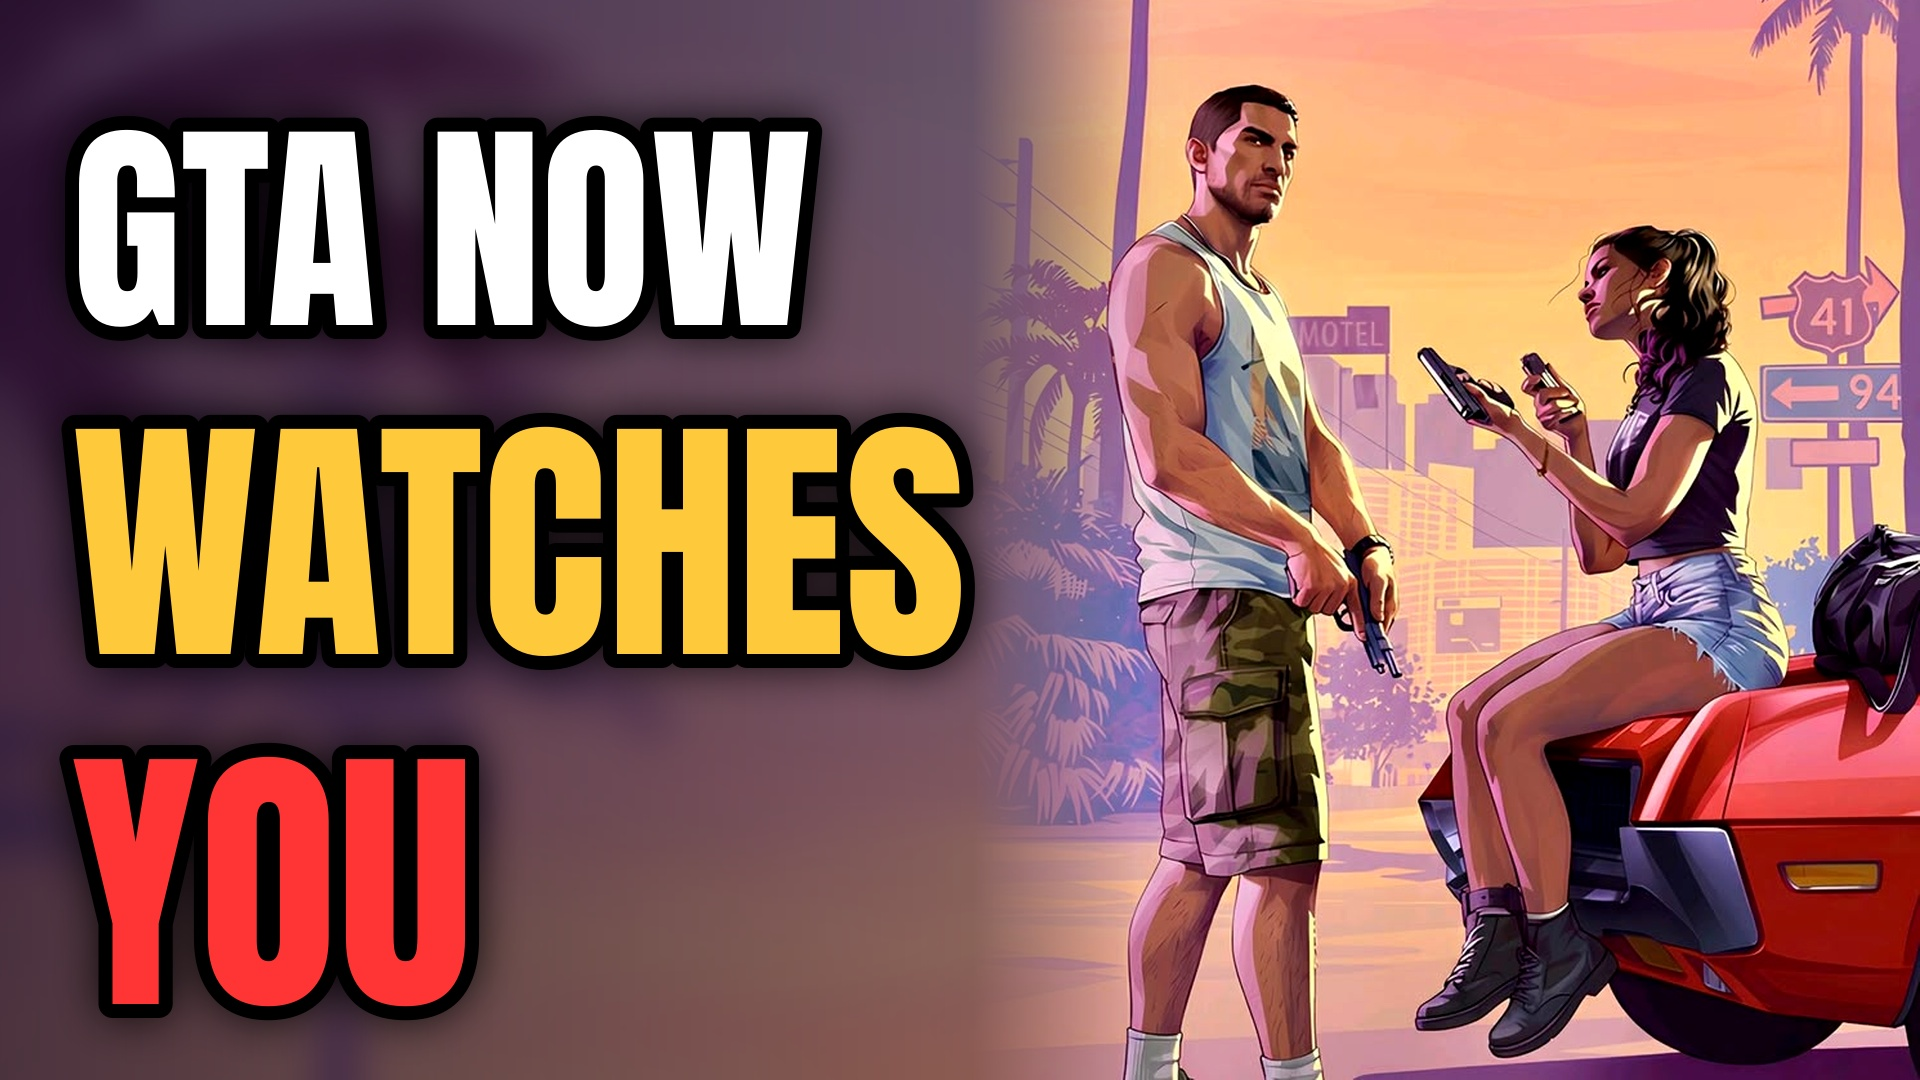
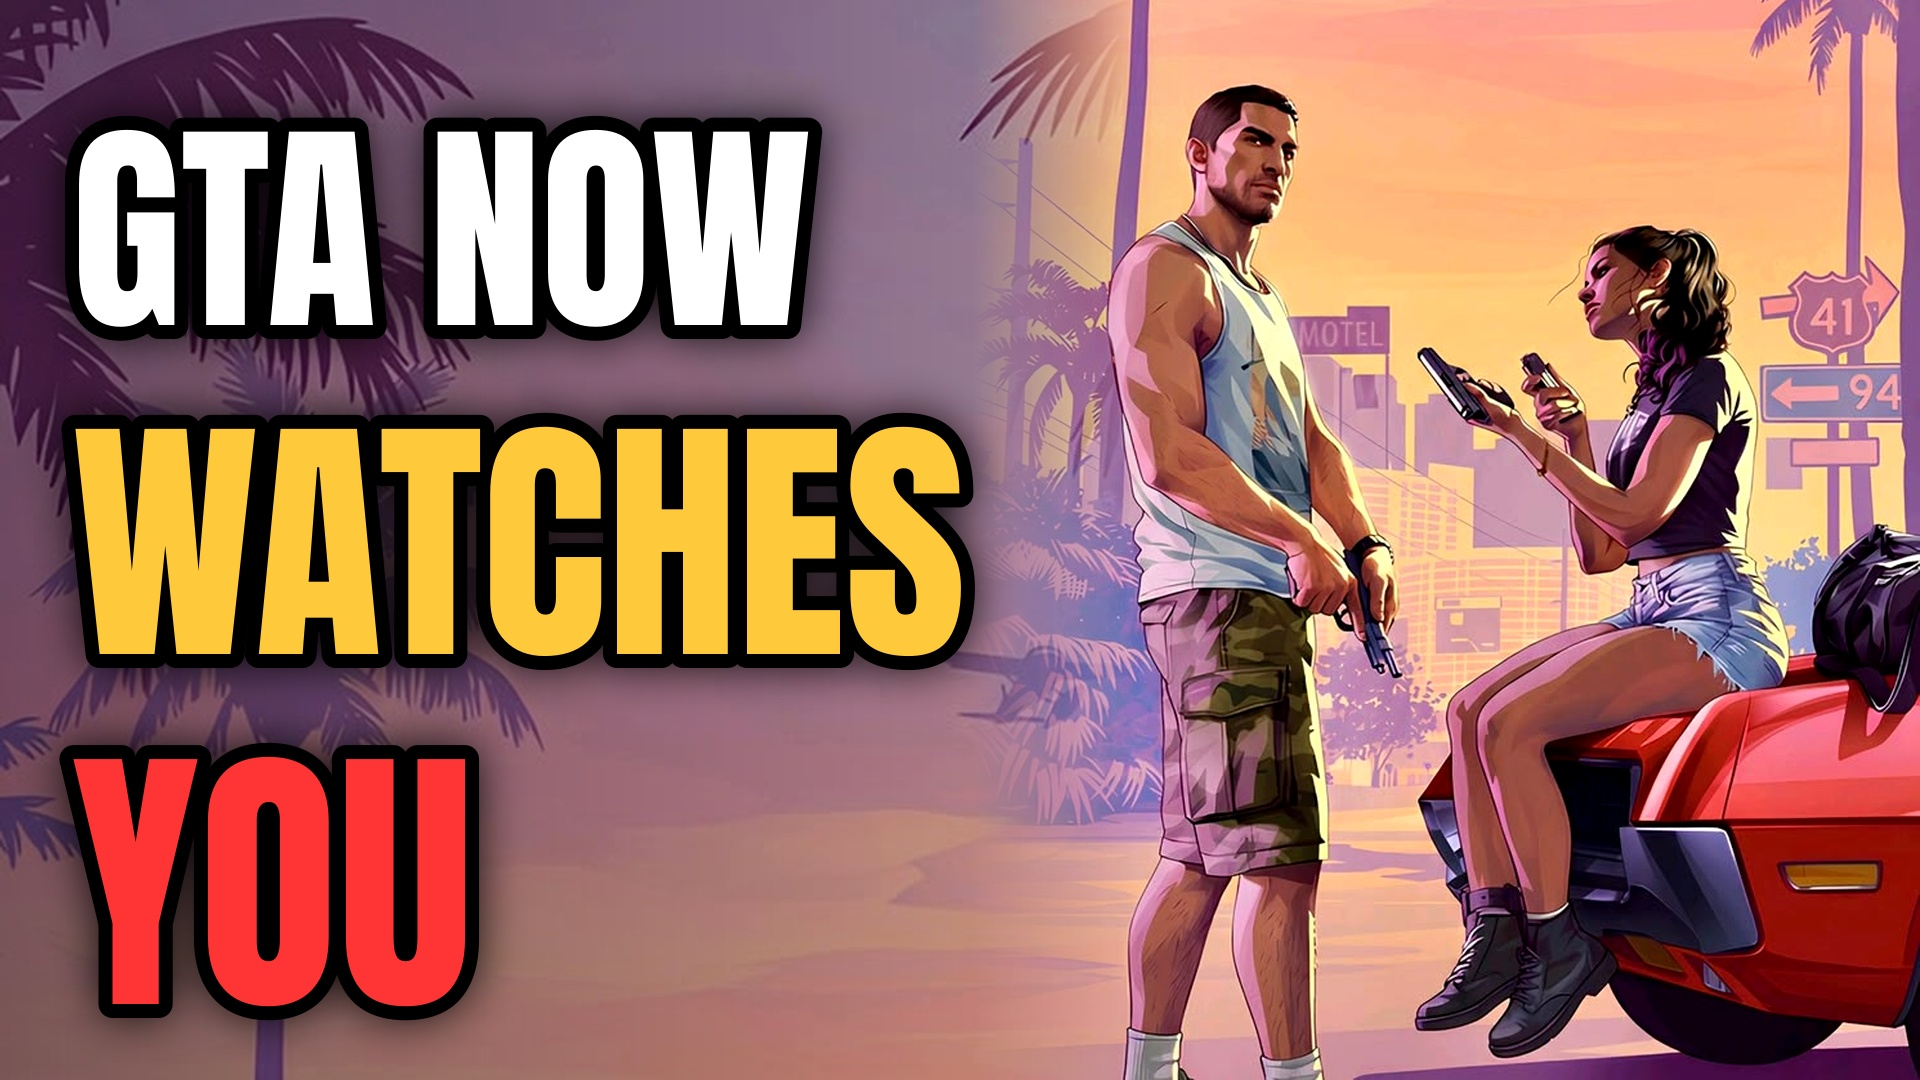
014 thumbnail v2: sharp sky/palms instead of blur
Claude-Session: https://claude.ai/code/session_01DX4dbwA3bNBQnMT2RJeEkt

Changed region(s): [[0.0, 0.0, 0.5625, 1.0]]

diff --git a/production/make_thumb014b.py b/production/make_thumb014b.py
@@ -5,9 +5,11 @@ from PIL import Image, ImageDraw, ImageFont, ImageFilter, ImageEnhance
 S = 1.5 if "--hd" in sys.argv else 1.0; out = [x for x in sys.argv[1:] if x != "--hd"][0]
 s = lambda v: int(round(v * S)); W, H = s(1280), s(720)
 src = Image.open("remotion-overlays/public/frames/user-jason-lucia-motel-art.jpg").convert("RGB")
-# background: the art's own sky, blurred and darkened, so the colours match
-bg = src.crop((0, 0, src.width, 520)).resize((W, H), Image.LANCZOS).filter(ImageFilter.GaussianBlur(s(14)))
-bg = ImageEnhance.Brightness(bg).enhance(0.62).convert("RGBA")
+# background: the art's own sky and palm trees, sharp
+sky = src.crop((0, 0, src.width, 520)); kk = H / sky.height
+sky = sky.resize((int(sky.width * kk), H), Image.LANCZOS)          # sharp palms + sky, no blur
+bg = Image.new("RGB", (W, H)); bg.paste(sky, (0, 0))
+bg = ImageEnhance.Brightness(bg).enhance(0.85).convert("RGBA")
 # characters: heads to boots, full thumbnail height on the right
 crop = src.crop((0, 470, src.width, src.height))
 k = H / crop.height; ch = crop.resize((int(crop.width * k), H), Image.LANCZOS)
@@ -18,7 +20,7 @@ for x in range(fade): md.line((x, 0, x, ch.height), fill=int(255 * x / fade))
 ch.putalpha(m); bg.alpha_composite(ch, (x0, 0)); im = bg
 # darken the text side a little more
 g = Image.new("L", (W, 1))
-for x in range(W): g.putpixel((x, 0), int(max(0, 1 - x / (W * 0.62)) * 150))
+for x in range(W): g.putpixel((x, 0), int(max(0, 1 - x / (W * 0.62)) * 120))
 sh = Image.new("RGBA", (W, H), (20, 6, 40, 255)); sh.putalpha(g.resize((W, H))); im = Image.alpha_composite(im, sh)
 F = "remotion-overlays/public/fonts/Anton-Regular.ttf"
 txt = Image.new("RGBA", (W, H), (0, 0, 0, 0)); d = ImageDraw.Draw(txt)
